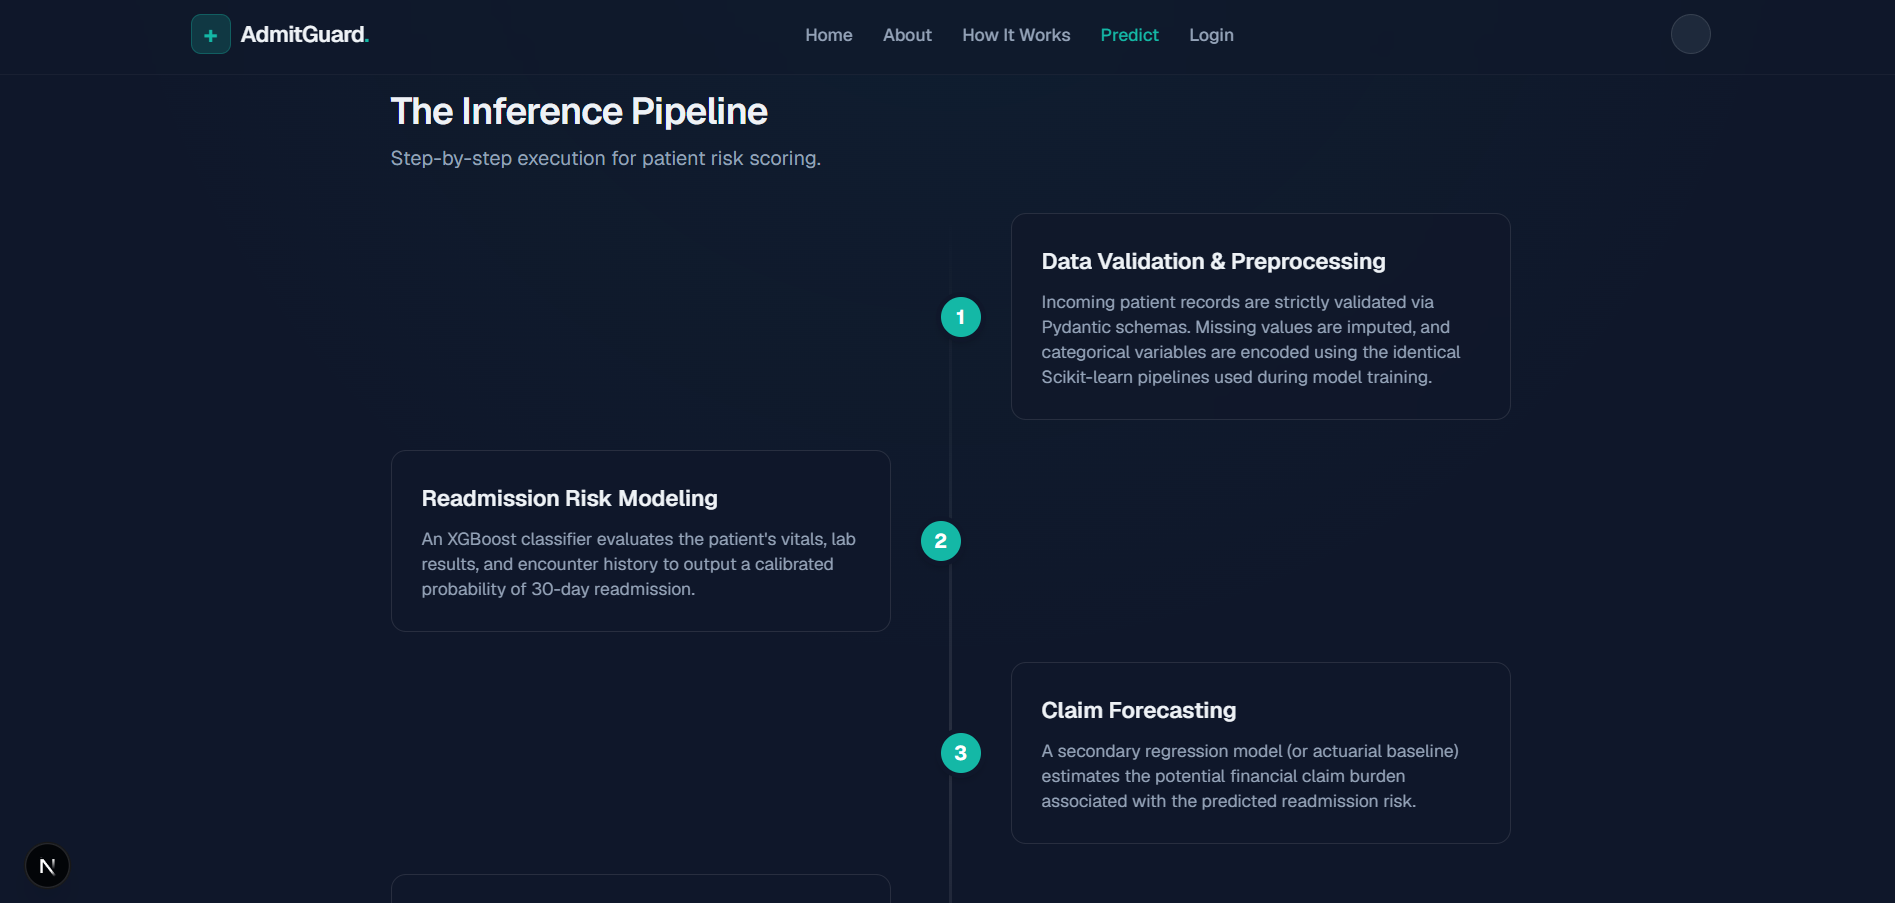
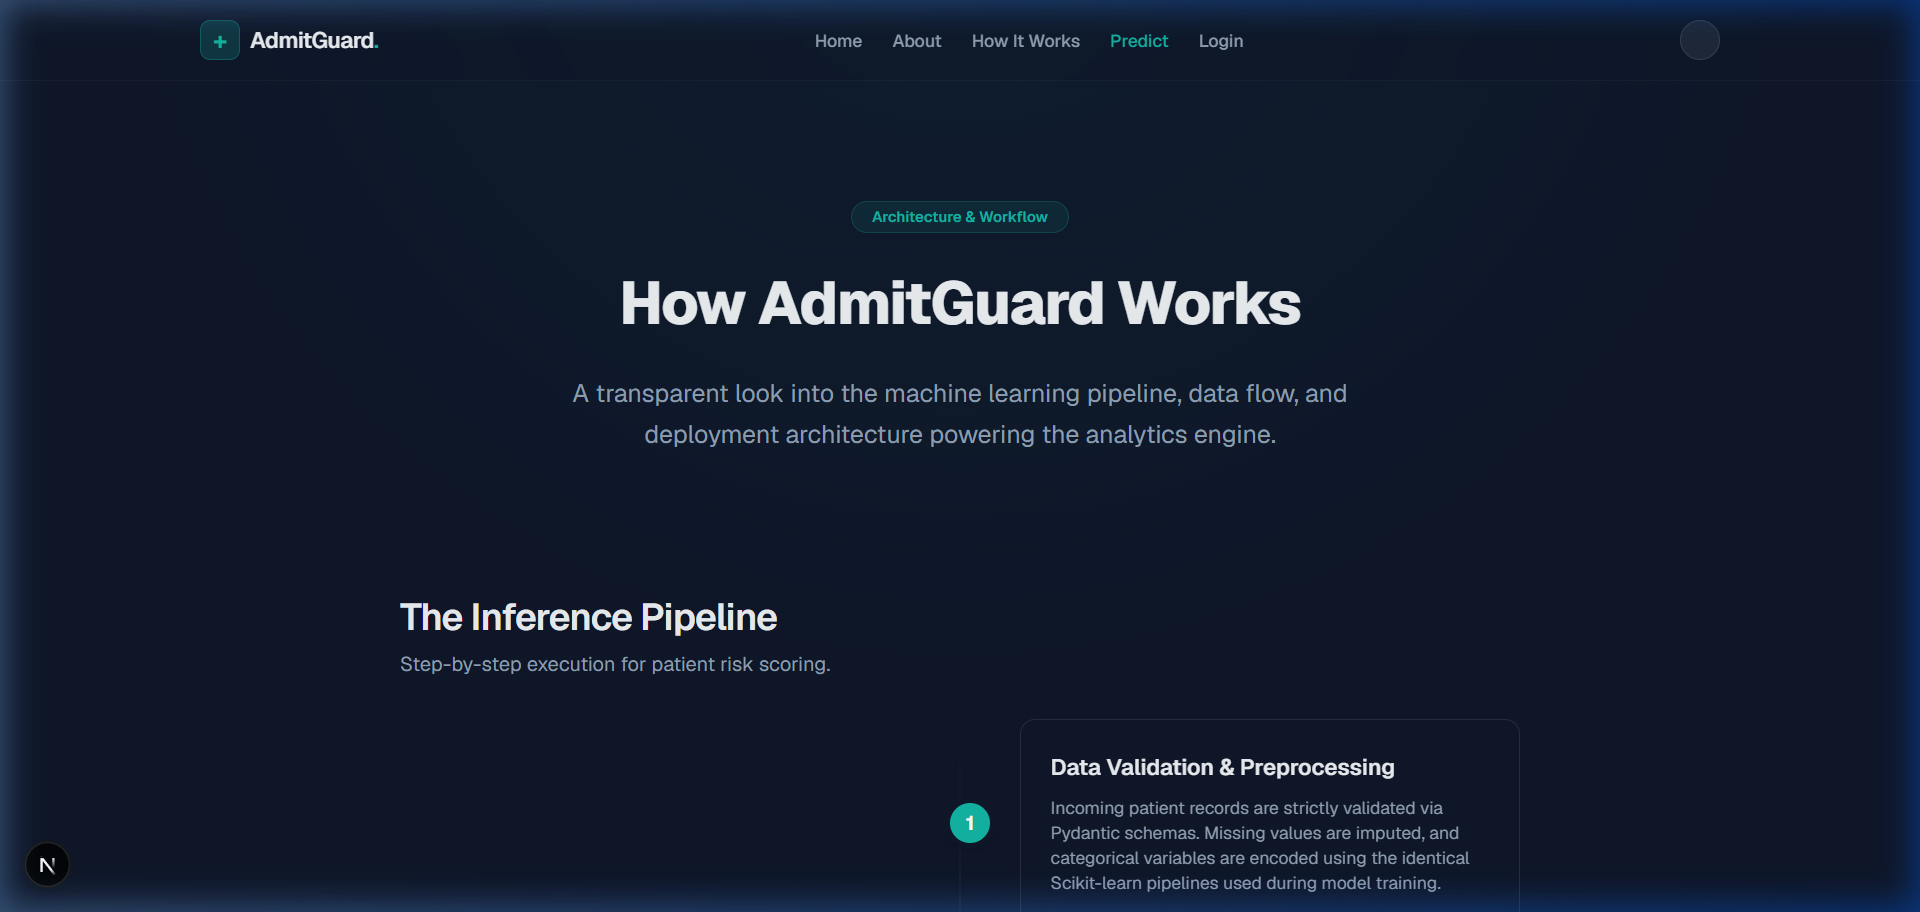
docs: update demo documentation after dataset rebuild

diff --git a/PROGRESS.md b/PROGRESS.md
@@ -1413,9 +1413,30 @@ The `/predict` page was updated to support the new separate task-specific datase
 
 ---
 
+## Update — Phase 11A.5 (Demo Documentation and Screenshot Update)
+
+### Completed Phase
+Phase 11A.5 — Demo Documentation and Screenshot Update
+
+### Context
+Finalized documentation and captured fresh screenshots of the polished UI to ensure the repository is demo-ready and accurately reflects the task-specific model rebuilds.
+
+### What Was Implemented
+- **Manual Demo Verification**: Successfully verified both Readmission Risk and Claim Estimate forms.
+- **Form Verification**: Confirmed that validation logic correctly blocks empty submissions and processing works for valid data.
+- **Responsive Layout**: Verified that the dashboard collapses gracefully on mobile widths and maintains usability.
+- **Screenshots**: Captured 5 fresh screenshots of all key application pages (Landing, About, How It Works, Predict Dashboard, and Results).
+- **Documentation Alignment**: Updated `README.md` to remove pending notes and correctly reference all new screenshots.
+
+### Validation Result
+- **Frontend Build**: `pnpm build` passed successfully.
+- **Backend/ML**: `compileall` passed with no syntax errors.
+- **Git Hygiene**: Verified that raw data, virtual environments, and build artifacts remain Git-ignored.
+
+---
+
 ## 11. Current Next Step
 
-1. Final visual polish pass for `/predict` page
-2. Optional UI screenshots/demo verification
-3. Dashboard/hospital analytics page review
-4. Final README polish for portfolio/demo use
+1. Dashboard/hospital analytics page review (Phase 12)
+2. SHAP/Explainability integration
+3. Final project hand-off documentation

diff --git a/README.md b/README.md
@@ -105,8 +105,9 @@ Because artifacts are not committed, you must build the models locally.
 ---
 
 ## 📸 Screenshots
-*(Manual screenshots pending)*
 
 ![Landing Page](docs/screenshots/landing-page.png)
+![About Page](docs/screenshots/about-page.png)
+![How It Works](docs/screenshots/how-it-works-page.png)
 ![Prediction Dashboard](docs/screenshots/predict-dashboard.png)
 ![Prediction Results](docs/screenshots/prediction-results.png)
